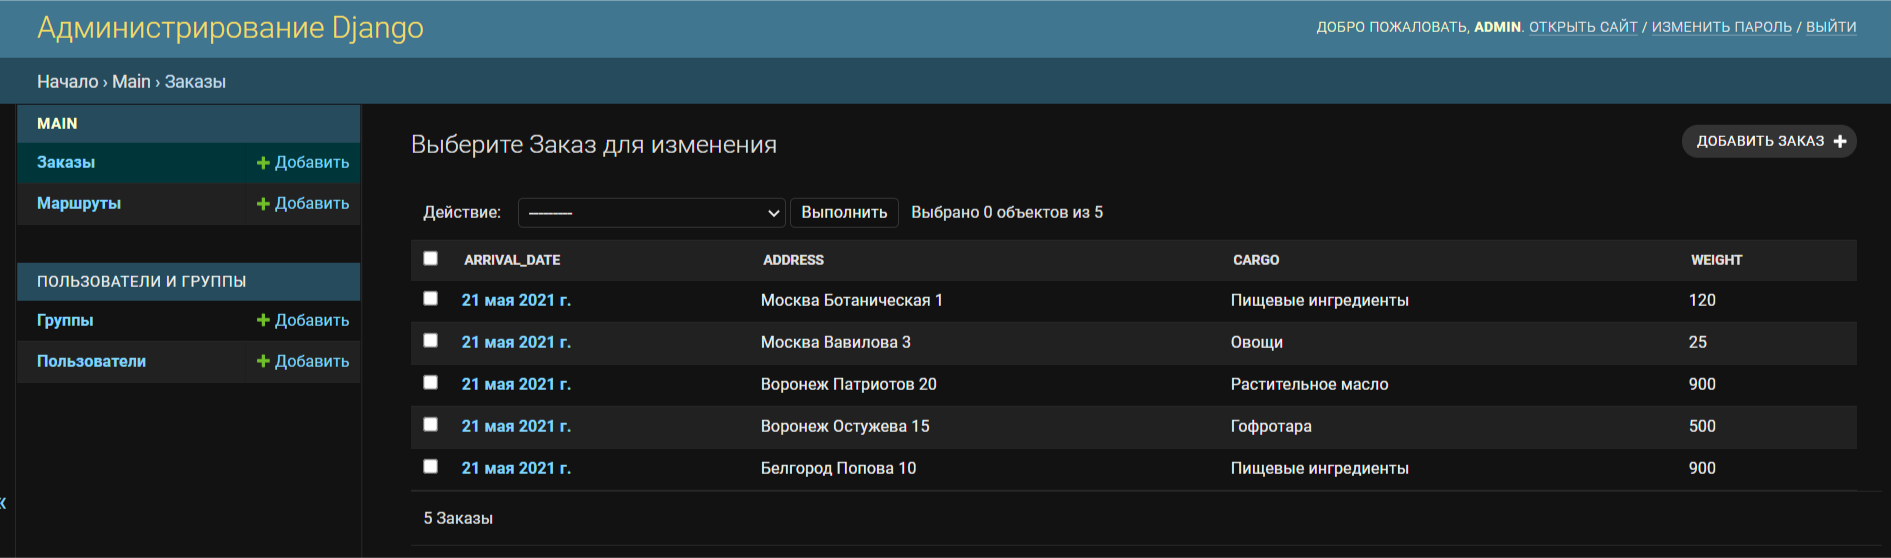
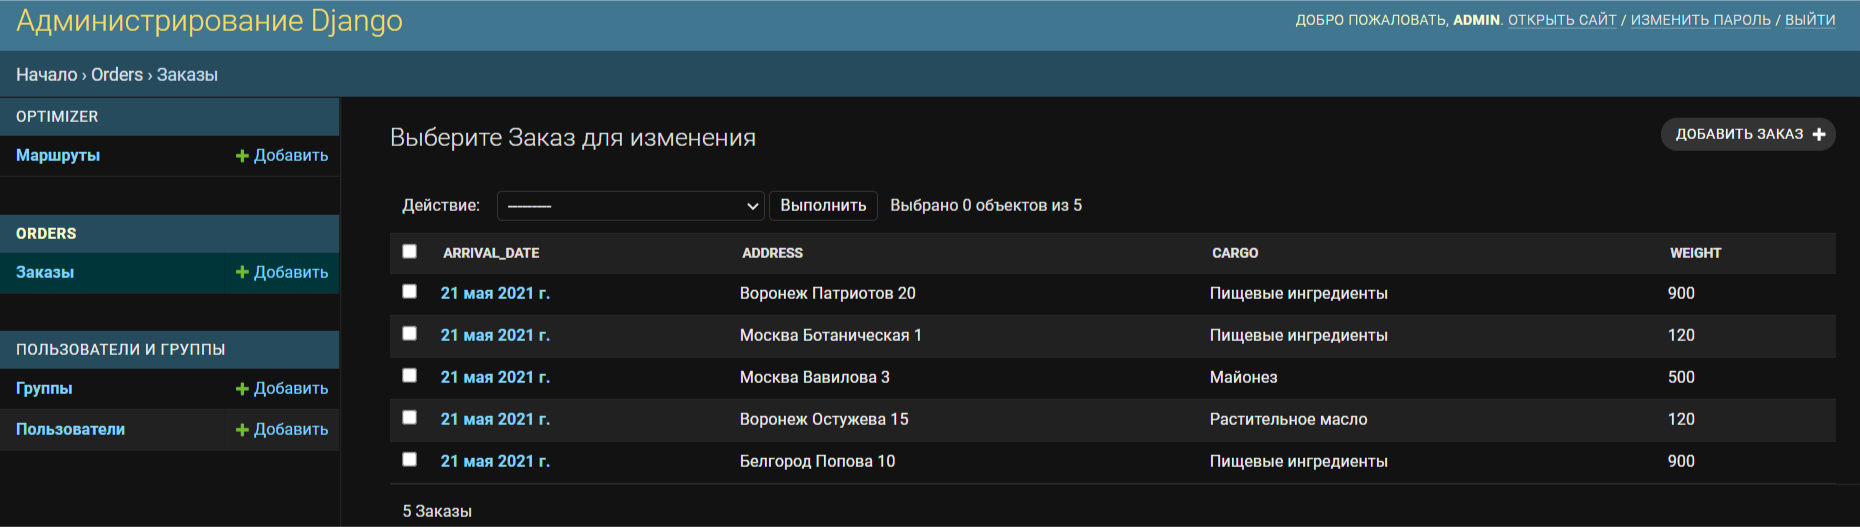
Code refactored

diff --git a/app/orders/templates/orders/success.html b/app/orders/templates/orders/success.html
@@ -9,7 +9,7 @@
 <div class="py-5 text-center">
   <h2>Ваш заказ принят!</h2>
   <p class="lead">
-    Результаты оптимизации рейсов находятся на вкладке "Результат" и будут доступны после 14:00
+    Результаты оптимизации рейсов находятся на вкладке "Результат"
   </p>
 </div>
 </body>

diff --git a/app/optimizer/opt/price.py b/app/optimizer/opt/price.py
@@ -6,7 +6,7 @@ API docs: https://dev.dellin.ru/api/calculation/calculator/
 import requests
 import json
 from auth import auth
-from optimizer.optimizer import get_coordinates
+from optimizer.opt.optimizer import get_coordinates
 
 
 def get_price(address_from: str, address_to: str, count: int = 1) -> float:

diff --git a/app/optimizer/opt/optimizer.py b/app/optimizer/opt/optimizer.py
@@ -8,7 +8,7 @@ and search algorithms applicable to a range of optimization problems,
 both discrete and continuous.
 """
 
-from optimizer.geocoding import get_coordinates
+from optimizer.opt.geocoding import get_coordinates
 from optimizer.opt.price import get_price
 
 import pandas as pd

diff --git a/app/optimizer/views.py b/app/optimizer/views.py
@@ -3,5 +3,6 @@ from .models import Route
 
 
 def result(request):
+    """Render result from Optimizer module"""
     route = Route.objects.order_by('orderby_coordinates')
     return render(request, 'optimizer/result.html', {'route': route})

diff --git a/app/optimizer/opt/distance.py b/app/optimizer/opt/distance.py
@@ -12,7 +12,7 @@ import json
 import requests
 
 from auth import auth
-from optimizer.geocoding import get_coordinates
+from optimizer.opt.geocoding import get_coordinates
 
 
 def distance_mapbox(point_from: str, point_to: str,

diff --git a/app/optimizer/main.py b/app/optimizer/main.py
@@ -1,0 +1,10 @@
+from orders.models import Orders
+from optimizer.models import Route
+from optimizer.opt.optimizer import Optimizer
+
+fetch_all_orders = Orders.objects.all()
+
+
+
+def _optimize_orders():
+    pass
